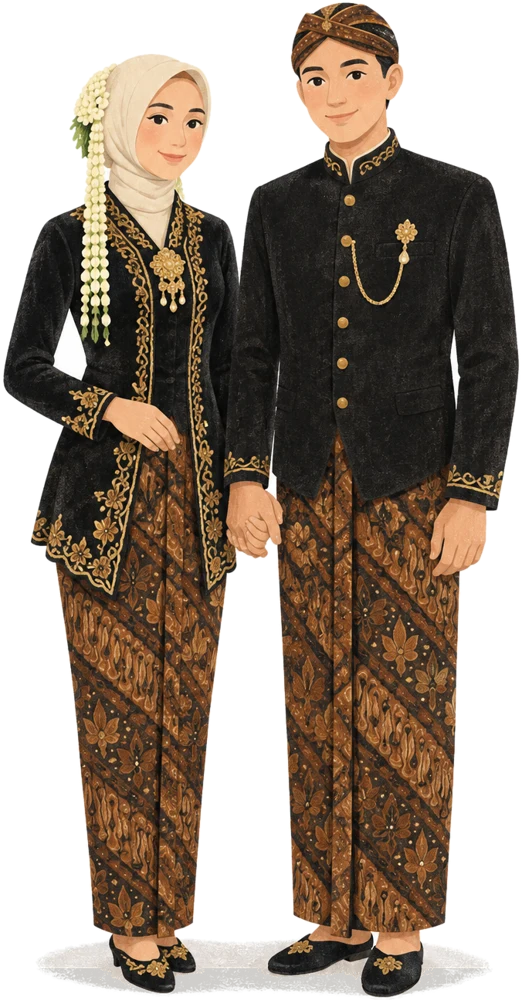
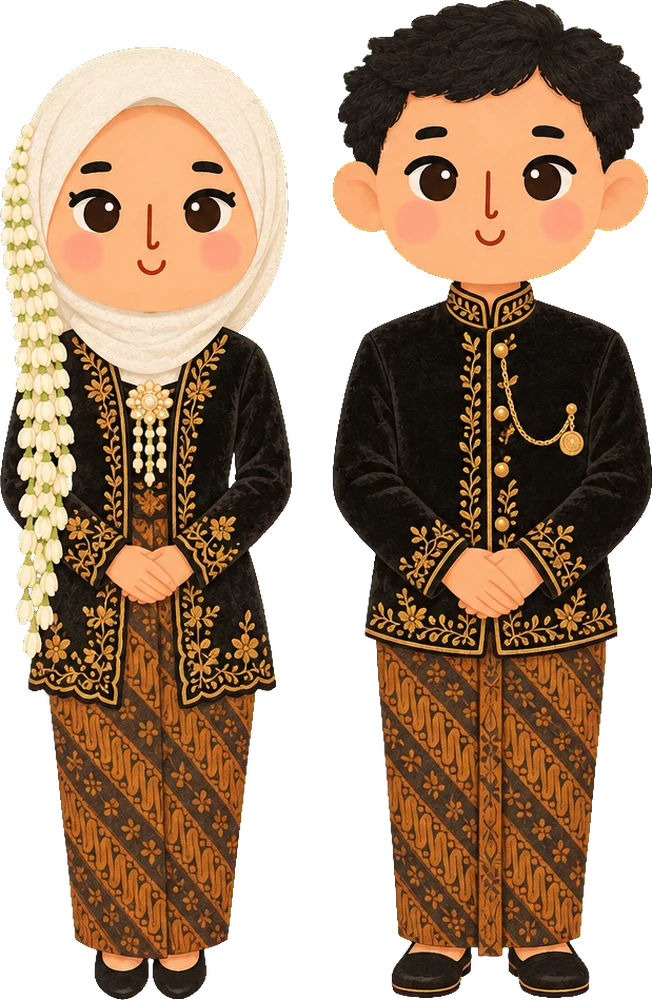
Ganti semua karakter pasangan ke gaya Potret Kecil
Karakter tema Kebun (Lila, Sage, Biru, Senja, Mawar), pasangan Joglo,
Kebun Teh dan Teras, ilustrasi intro beranda, serta sampul dan thumbnail
tema yang memuat karakter tersebut.

Claude-Session: https://claude.ai/code/session_017DinK59yxQurLMhadDkCe4

diff --git a/index.html b/index.html
@@ -3410,7 +3410,7 @@ var n=document.getElementById('gateNames');if(n&&c.n1&&c.n2){n.textContent='';va
     <h2 class="e-statement" id="e-st" data-words>Dilukis dengan teliti, <em>diisi dengan cerita kalian,</em> dan setiap doa dari tamu tersimpan jadi kenangan.</h2>
     <div class="e-intro-row">
       <p>Pilih tema dari ilustrasi lukisan tangan sampai motif adat, lalu ceritakan perjalanan kalian di dalamnya. Tamu bisa titip doa, ucapan, dan foto langsung dari undangan, dan semuanya tersimpan rapi untuk kalian buka lagi kapan pun. Urusan tamu dan konfirmasi hadir? Sudah termasuk juga.</p>
-      <figure class="e-intro-pic e-reveal" data-tone="lt"><img loading="lazy" decoding="async" src="/assets/home/d-pasangan-v2.webp" width="547" height="700" alt="Ilustrasi pasangan pengantin di tema Kebun Mawar"></figure>
+      <figure class="e-intro-pic e-reveal" data-tone="lt"><img loading="lazy" decoding="async" src="/assets/home/d-pasangan-v3.webp" width="547" height="700" alt="Ilustrasi pasangan pengantin di tema Kebun Mawar"></figure>
     </div>
   </section>
 
